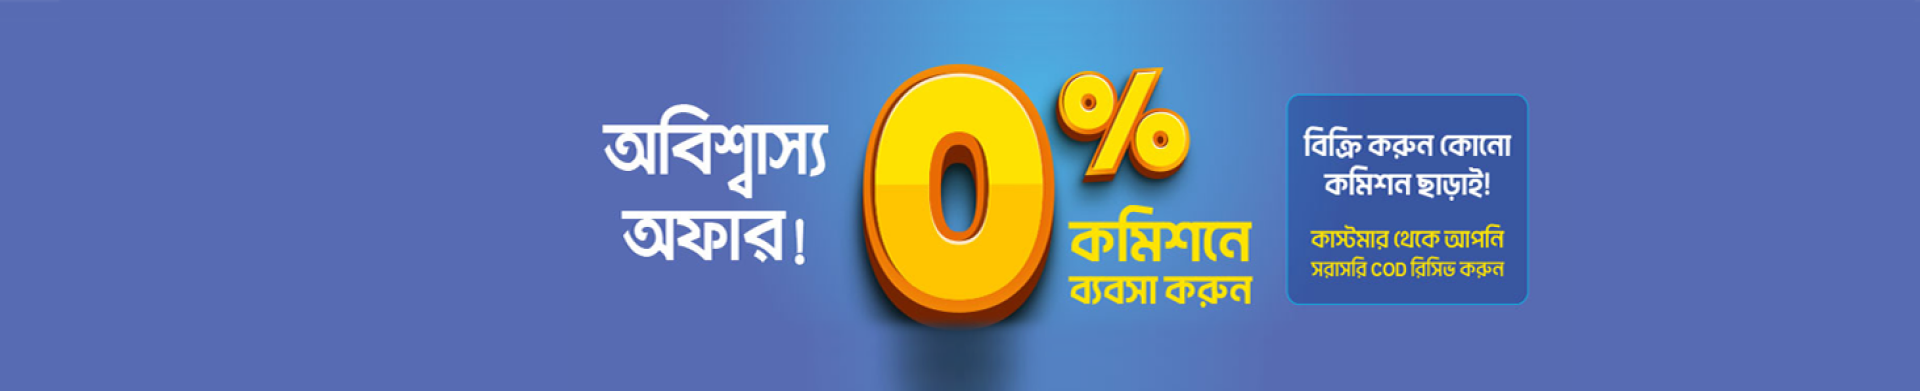
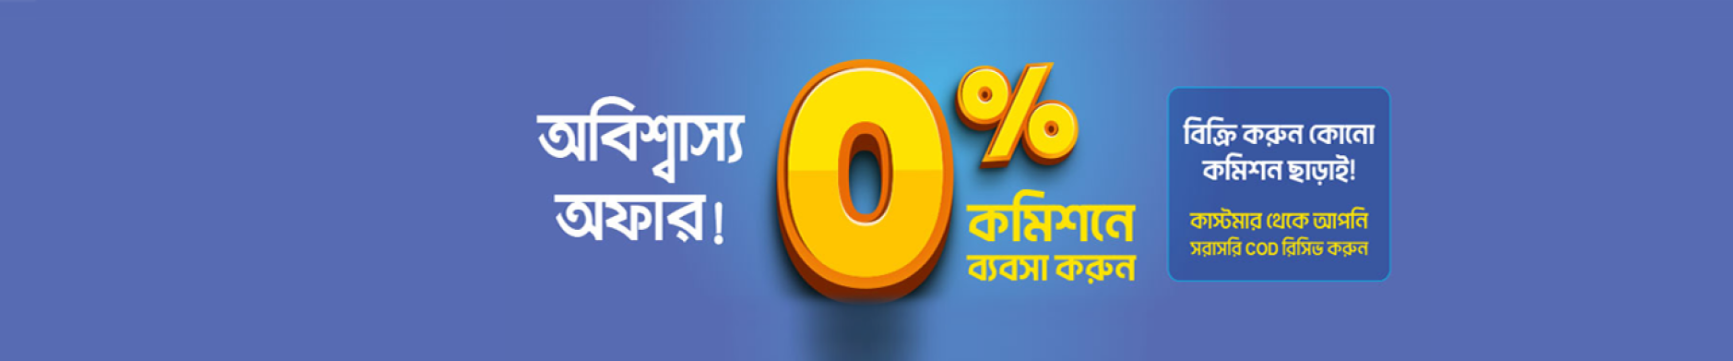
category section done

Changed region(s): [[0.4674, 0.1828, 0.8102, 0.7922], [0.3116, 0.2438, 0.4674, 0.7313]]

diff --git a/task/app/components/Header.jsx b/task/app/components/Header.jsx
@@ -6,15 +6,16 @@ import { FiShoppingCart } from "react-icons/fi";
 import { MdClose } from "react-icons/md";
 import { GiHamburgerMenu } from "react-icons/gi";
 import Image from 'next/image';
+import MobileCategory from "../components/MobileCategory";
 
 
 const Header = () => {
   const [isMobileMenuOpen, setIsMobileMenuOpen] = useState(false);
 
   return (
-    <header className="relative">
+    <header className="relative lg:pb-6">
       {/* Desktop Header */}
-      <div className="hidden md:flex items-center justify-center gap-14 w-full mx-auto px-4 py-2 bg-white shadow-sm">
+      <div className="hidden md:flex items-center justify-center gap-14 w-full mx-auto px-4 py-2 bg-white ">
         <div className="flex text-start space-x-4 ">
         <Image
       src="/logo.png"
@@ -29,8 +30,8 @@ const Header = () => {
             placeholder="Search Product"
             className="flex-grow border bg-[#EEF1F5] rounded-l-md px-4 py-2 focus:outline-none"
           />
-          <button className="bg-orange-600 text-white relative px-4 py-3 rounded-r-md">
-            <TfiSearch size={17} />
+          <button className="bg-[#F97217] text-white relative px-4 py-3 rounded-r-md">
+            <TfiSearch size={18} />
           </button>
         </div>
         <div className="flex items-center space-x-2 relative ">
@@ -65,7 +66,7 @@ const Header = () => {
 
       {/* Mobile Menu */}
       {isMobileMenuOpen && (
-        <div className="absolute top-0 left-0 w-full h-full bg-white shadow-md z-50">
+        <div className="absolute top-0 left-0 w-full h-full bg-white pb-10  shadow-md z-50">
           <div className="flex items-center justify-between px-2 py-2">
       
             <button
@@ -75,7 +76,7 @@ const Header = () => {
               <MdClose size={24} />
             </button>
           </div>
-          <div className="flex flex-col bg-white items-center space-y-4 mt-2">
+          <div className="flex flex-col bg-white items-center space-y-4  mt-2">
             <div className="w-full px-1">
             <div className="flex items-center w-full max-w-md">
           <input
@@ -83,15 +84,20 @@ const Header = () => {
             placeholder="Search Product"
             className="flex-grow border bg-[#EEF1F5] rounded-l-md px-4 py-2 focus:outline-none"
           />
-          <button className="bg-orange-600 text-white  px-4 py-3 rounded-r-md">
+          <button className="bg-[#F97217] text-white  px-4 py-3 rounded-r-md">
             <TfiSearch size={17} />
           </button>
         </div>
             </div>
+           
           </div>
-          
+        <div className="py-3 px-2">
+        <MobileCategory/>
         </div>
+        </div>
+         
       )}
+     
     </header>
   );
 };

diff --git a/task/app/components/MobileCategory.jsx b/task/app/components/MobileCategory.jsx
@@ -2,7 +2,7 @@
 import { useState, useEffect } from "react";
 import { FaChevronDown } from "react-icons/fa";
 
-const Category = () => {
+const MobileCategory = () => {
   const [categories, setCategories] = useState([]);
   const [hoveredPath, setHoveredPath] = useState([]);
   const [isMenuOpen, setIsMenuOpen] = useState(false); // Track menu open state for smaller screens
@@ -69,10 +69,10 @@ const Category = () => {
     <div className="relative ">
       {/* Menu toggle button for small screens */}
       <button
-        className="md:hidden p-2 text-[#FC8C21]  rounded"
+        className="md:hidden p-2 text-[#FC8C21] bg-white rounded"
         onClick={() => setIsMenuOpen(!isMenuOpen)}
       >
-        {isMenuOpen ? "Close Menu" : "Categories"}
+        {isMenuOpen ? "Close Categories" : "Open Categories"}
       </button>
 
       {/* Dropdown menu container */}
@@ -94,4 +94,4 @@ const Category = () => {
   );
 };
 
-export default Category;
+export default MobileCategory;

diff --git a/task/app/components/HeaderTopBar.jsx b/task/app/components/HeaderTopBar.jsx
@@ -3,12 +3,14 @@ import { IoIosArrowUp } from "react-icons/io";
 
 
 const HeaderTopBar = () => {
+  
     return ( 
-        <div className="container mx-auto py-2 hidden sm:block md:px-4 text-[#434343]">
-        <div className="flex justify-between text-[12px] ">
+        <div className="bg-[#F0F0F0]">
+          <div className="container mx-auto py-2 hidden sm:block md:px-4 ">
+        <div className="flex justify-between text-[12px] text-[#434343] ">
           {/* Left side content */}
           <div className="flex gap-7">
-            <h3 className="flex text-[#F68D20] items-center">
+            <h3 className="flex text-[#F68D20] gap-2 items-center">
               English <IoIosArrowUp />
             </h3>
             <p>Help Center</p>
@@ -24,6 +26,7 @@ const HeaderTopBar = () => {
           </div>
         </div>
       </div>
+        </div>
       
     );
 };

diff --git a/task/app/globals.css b/task/app/globals.css
@@ -23,5 +23,45 @@ body {
 }
 
 #banner img {
-  height: 320px;
+  height: 320px; /* Default height for larger screens */
+}
+
+/* Media query for mobile devices */
+@media (max-width: 640px) {
+  #banner img {
+    height: auto; /* Set height to 0px for mobile devices */
+  }
+}
+
+
+/* Tailwind CSS styles for hover effect */
+.category-container {
+  @apply flex;
+}
+
+.categories-list {
+  @apply w-1/4 bg-gray-100 p-4;
+}
+
+.category-item {
+  @apply relative cursor-pointer p-2 hover:bg-gray-200;
+  &:hover .subcategories-list {
+    @apply block;
+  }
+}
+
+.subcategories-list {
+  @apply absolute left-full top-0 bg-white shadow-lg w-48 hidden;
+}
+
+.subcategory-item {
+  @apply p-2 hover:bg-gray-300;
+}
+
+.nested-subcategories {
+  @apply absolute left-full top-0 bg-white shadow-lg w-48 hidden;
+}
+
+.nested-subcategory-item {
+  @apply p-2 hover:bg-gray-400;
 }

diff --git a/task/app/components/Banner.jsx b/task/app/components/Banner.jsx
@@ -1,15 +1,16 @@
 import Image from 'next/image';
 const Banner = () =>{
     return(
-        <div id="banner">
-        <Image
-        src="/banner.png"
-        width={1920}
-        height={350}
-        alt="logo"
-      />
-         
-        </div>
+       <div id="banner" className="w-full">
+  <Image
+    src="/banner.png"
+    alt="logo"
+    width={1920}
+    height={390}
+  
+  />
+</div>
+
     )
 }
 

diff --git a/task/app/page.js b/task/app/page.js
@@ -4,9 +4,12 @@ import Category from "./components/Category";
 
 export default function Home() {
   return (
-    <div className="">
-       <Category/>
-      <Banner/>
+    <div className=" h-screen">
+     <Banner/>
+     <div className="absolute top-24 w-full hidden sm:block lg:px-[80px] xl:px-[90px] xxl:px-[100px] 2xl:px-[110px] ">
+      <Category/>
+      </div>
+    
     </div>
   );
 }

diff --git a/task/app/components/Footer.jsx b/task/app/components/Footer.jsx
@@ -2,8 +2,10 @@ import React from 'react';
 
 const Footer = () => {
     return (
-        <div>
-            this is a footer
+        <div className="bg-black">
+           <div className="text-gray-300 text-[13px] py-1 text-center">
+            <p >© 2024 - 2025 All Rights Reserved | Alzaf </p>
+           </div>
         </div>
     );
 };

diff --git a/task/app/layout.js b/task/app/layout.js
@@ -18,8 +18,8 @@ const geistMono = localFont({
 });
 
 export const metadata = {
-  title: "Create Next App",
-  description: "Generated by create next app",
+  title: "Alzaf",
+  description: "Alzaf",
 };
 
 export default function RootLayout({ children }) {
